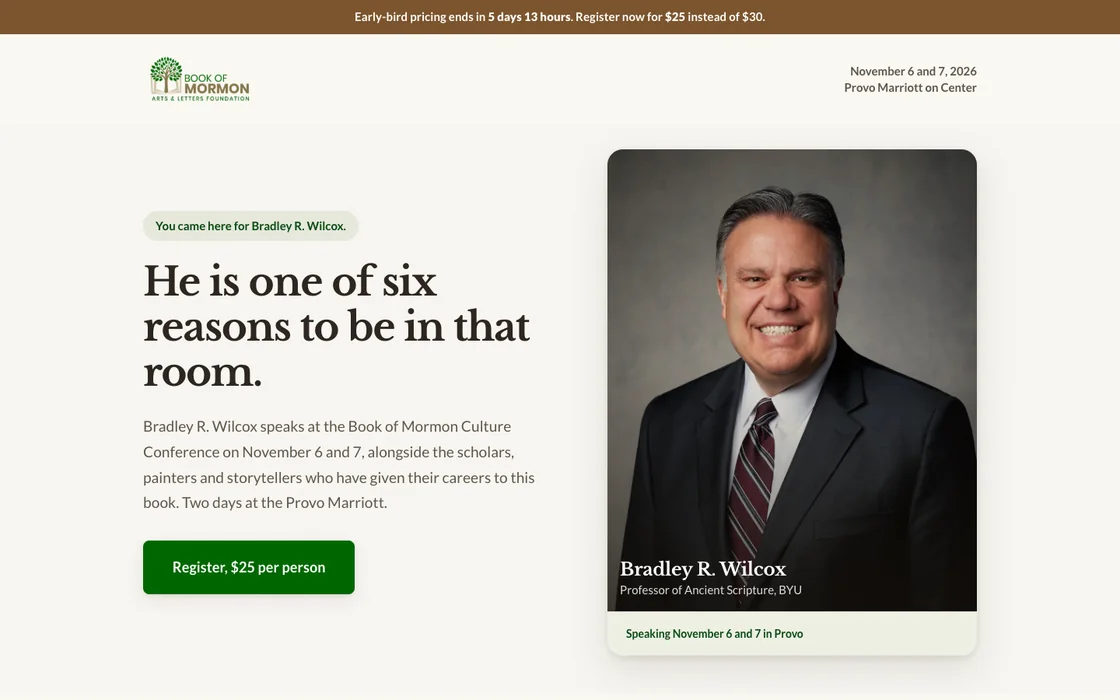
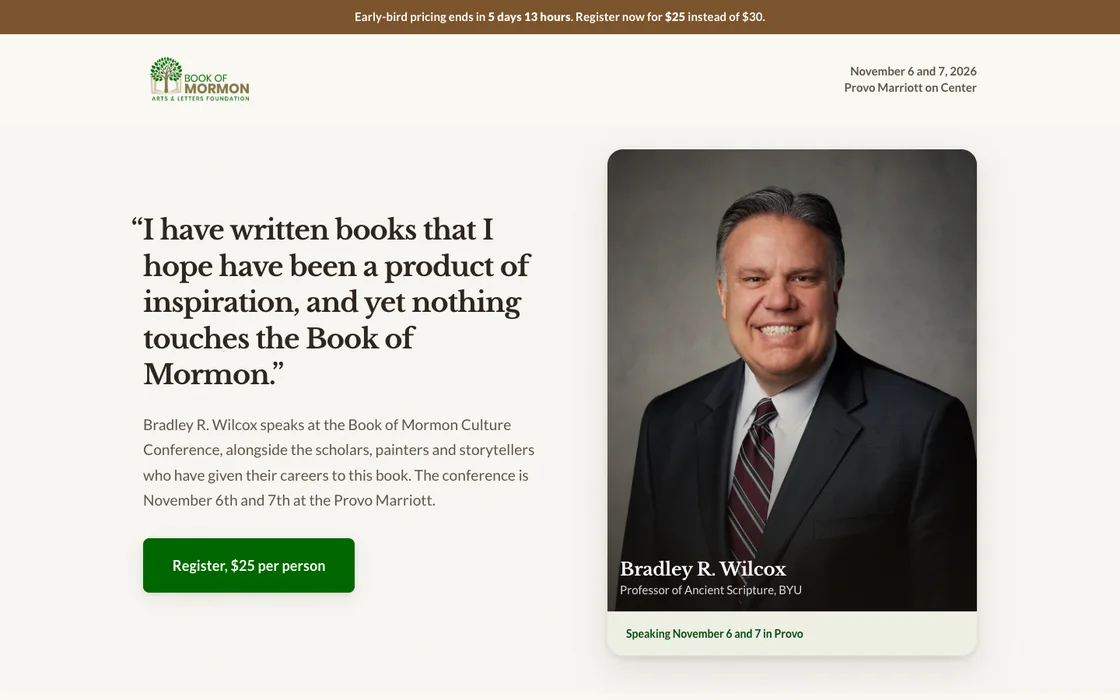
Brian's copy pass on page B, and the add-ons are not sold out
Page B: eyebrow removed, headline replaced with a Wilcox quote, room photo
caption rewritten. The wall is now "Other names on the program", so Wilcox
comes out of it and the five remaining portraits centre their last row.
Rosalynde Welch gets the supplied portrait in place of the 400px headshot.

The hero lede said "on November 6 and 7" and the new closing sentence says
"November 6th and 7th", so the earlier date is dropped rather than printed
twice.

Correction: register.bomal.org showed the banquet and box lunch as sold out
when this was written. Brian confirms neither has. Both now read as available
while they last.

Changed region(s): [[0.125, 0.3, 0.4688, 0.57], [0.125, 0.6, 0.4688, 0.87]]

diff --git a/authority.html b/authority.html
@@ -22,11 +22,9 @@
   .hero{ padding-block:var(--s5) var(--s6); }
   .hero-grid{ display:grid; gap:var(--s6); align-items:center; }
   @media (min-width:900px){ .hero-grid{ grid-template-columns:1.05fr .95fr; gap:var(--s7); } }
-  .hero h1{ max-width:16ch; }
+  .hero h1{ max-width:21ch; font-size:clamp(1.45rem,2.9vw,2.2rem); line-height:1.32; }
+  @media (min-width:700px){ .hero h1{ text-indent:-.44em; } }
   .hero .lede{ margin-top:var(--s4); max-width:52ch; }
-  .hero .from-speaker{ display:inline-block; margin-bottom:var(--s4);
-    font-size:.9375rem; font-weight:700; color:var(--green-deep);
-    background:rgba(125,151,94,.14); border-radius:999px; padding:.45rem 1rem; }
 
   .hero-card{ border-radius:var(--rad-xl); overflow:hidden; box-shadow:var(--sh-3); background:var(--card); }
   .hero-card .portrait{ aspect-ratio:4/5; }
@@ -38,8 +36,9 @@
   .wall-intro{ margin-bottom:var(--s5); }
 
   /* The wall. Six faces, full bleed of the container, no ornament. */
-  .wall{ display:grid; grid-template-columns:repeat(2,1fr); gap:var(--s4); }
-  @media (min-width:680px){ .wall{ grid-template-columns:repeat(3,1fr); } }
+  .wall{ display:flex; flex-wrap:wrap; justify-content:center; gap:var(--s4); }
+  .wall figure{ flex:0 0 calc((100% - var(--s4)) / 2); }
+  @media (min-width:680px){ .wall figure{ flex:0 0 calc((100% - 2 * var(--s4)) / 3); } }
   .wall figure{ margin:0; }
   .wall .portrait{ aspect-ratio:4/5; border-radius:var(--rad-lg); box-shadow:var(--sh-2); }
   .wall .portrait img{ object-position:center 18%; }
@@ -91,14 +90,11 @@
   <section class="hero grain">
     <div class="wrap hero-grid">
       <div>
-        <p class="from-speaker" data-sp-only hidden>
-          You came here for <span data-sp="name">Bradley R. Wilcox</span>.
-        </p>
-        <h1>He is one of six reasons to be in that room.</h1>
+        <h1>“I have written books that I hope have been a product of inspiration, and yet nothing touches the Book of Mormon.”</h1>
         <p class="lede">
           <span data-sp="name">Bradley R. Wilcox</span> speaks at the Book of Mormon Culture
-          Conference on November 6 and 7, alongside the scholars, painters and storytellers who
-          have given their careers to this book. Two days at the Provo Marriott.
+          Conference, alongside the scholars, painters and storytellers who have given their
+          careers to this book. The conference is November 6th and 7th at the Provo Marriott.
         </p>
         <p style="margin-top:var(--s5)">
           <a class="btn btn-primary btn-lg" href="https://register.bomal.org/" data-register>Register, <span data-price-now>$30</span> per person</a>
@@ -122,7 +118,7 @@
   <section class="section">
     <div class="wrap">
       <div class="wall-intro measure">
-        <h2>The six names on the program</h2>
+        <h2>Other names on the program</h2>
       </div>
       <div class="wall">
         <figure>
@@ -134,17 +130,10 @@
         </figure>
         <figure>
           <div class="portrait">
-            <img src="brand_assets/speakers/welch.webp" alt="Rosalynde F. Welch" width="400" height="400">
+            <img src="brand_assets/speakers/welch-portrait.webp" alt="Rosalynde F. Welch" width="1000" height="1000">
             <div class="portrait-cap"><h3>Rosalynde F. Welch</h3><p>Associate Director, Neal A. Maxwell Institute</p></div>
           </div>
           <p class="tagline">Scholar of scripture and theology, and a conference keynote.</p>
-        </figure>
-        <figure>
-          <div class="portrait">
-            <img src="brand_assets/speakers/wilcox-portrait.webp" alt="Bradley R. Wilcox" width="1000" height="1250">
-            <div class="portrait-cap"><h3>Bradley R. Wilcox</h3><p>Professor of Ancient Scripture, BYU</p></div>
-          </div>
-          <p class="tagline">Keynote speaker across the two days in Provo.</p>
         </figure>
         <figure>
           <div class="portrait">
@@ -190,9 +179,10 @@
       <div class="photo photo-caption">
         <img src="brand_assets/event/panel.webp" alt="A panel session in front of a full auditorium at the conference" width="1800" height="1200" loading="lazy">
         <div class="cap">
-          <b>This is the room</b>
-          <p>Not a livestream and not a lecture hall of strangers. Panels, questions from the floor,
-             and people who stay afterward to keep arguing about it.</p>
+          <b>A room like this</b>
+          <p>This is a live event meant for people coming together to celebrate the Book of
+             Mormon. This is not a debate of controversial topics. There are panels, questions
+             from the floor, and people who stay to strengthen testimonies and each other.</p>
         </div>
       </div>
     </div>
@@ -243,8 +233,8 @@
     <div class="wrap-narrow closer">
       <h2>Two days. One room. Thirty dollars.</h2>
       <p class="lede">
-        The Friday banquet and the Saturday box lunch have already sold out.
-        Conference registration is still open.
+        The Friday honoree banquet and the Saturday box lunch are separate tickets,
+        available while they last.
       </p>
       <a class="btn btn-onbark btn-lg" href="https://register.bomal.org/" data-register>Register for the conference</a>
       <p class="cta-sub"><span data-price-note>Full registration, both days.</span> Groups receive an automatic ten percent discount.</p>

diff --git a/index.html b/index.html
@@ -171,7 +171,7 @@
               <b>Structure</b>
               <ul class="opt-structure">
                 <li><span class="n">1</span><span>Wilcox hero, one CTA</span></li>
-                <li><span class="n">2</span><span>Six-portrait wall with roles and context</span></li>
+                <li><span class="n">2</span><span>The five other names, with roles and context</span></li>
                 <li><span class="n">3</span><span>The institutions behind them</span></li>
                 <li><span class="n">4</span><span>A photo of the actual room</span></li>
                 <li><span class="n">5</span><span>Rane spotlight, podcast, CTA band</span></li>
@@ -218,7 +218,7 @@
           <p>
             One date in <code>assets/lp.js</code> drives the top strip and every price on both
             pages. Before October 10 it counts down the early bird. After, it flips itself to the
-            event date and the sold-out add-ons.
+            event date and the add-on tickets.
           </p>
         </div>
       </div>
@@ -230,15 +230,15 @@
       <div class="note">
         <h2 style="margin-bottom:var(--s3)">Notes before you start cutting</h2>
         <p>
-          <b>Wilcox has no quote on either page.</b> Nothing attributes words to him. A single
-          line in his own voice in the hero is the strongest upgrade available to both, and the
-          slot is already wired in <code>assets/lp.js</code>.
+          <b>Page B now leads with a Wilcox quote</b>, supplied by Brian, about nothing touching
+          the Book of Mormon. Page A still has none. A line in his own voice is the strongest
+          upgrade available to A as well.
         </p>
         <p>
-          <b>He appears twice on page B</b>, once in the hero and once in the wall, which is
-          headed "The six names on the program" so the repeat reads as intentional rather than
-          as a mistake. The wall is the whole argument of that page, so dropping him from it
-          would cost more than the repetition does. Easy to change if you disagree.
+          <b>The banquet and box lunch are not sold out.</b> register.bomal.org said they were
+          when these pages were first written, and it went into the copy in nine places across
+          both repos. Corrected on 2026-10-05 to "available while they last". If the
+          registration site still shows them sold out, that is the thing to fix next.
         </p>
         <p>
           <b>Still no written social proof.</b> No attendee quotes, no attendance number, no
@@ -247,7 +247,7 @@
         </p>
         <p>
           <b>Facts came from bomal.org and register.bomal.org</b> on October 5, 2026. The ad is
-          live, so confirm the price, the dates and the sold-out add-ons before spend scales.
+          live, so confirm the price, the dates and the add-on tickets before spend scales.
         </p>
       </div>
     </div>

diff --git a/assets/lp.js b/assets/lp.js
@@ -20,7 +20,7 @@ var REGISTER_URL = 'https://register.bomal.org/';
    them. See content-gaps.md. */
 var SPEAKERS = {
   givens:  { name: 'Terryl Givens',       role: 'Senior Research Fellow, Neal A. Maxwell Institute', img: 'givens.webp',  quote: '' },
-  welch:   { name: 'Rosalynde F. Welch',  role: 'Associate Director, Neal A. Maxwell Institute',     img: 'welch.webp',   quote: '' },
+  welch:   { name: 'Rosalynde F. Welch',  role: 'Associate Director, Neal A. Maxwell Institute',     img: 'welch-portrait.webp', quote: '' },
   wilcox:  { name: 'Bradley R. Wilcox',   role: 'Professor of Ancient Scripture, BYU',               img: 'wilcox-portrait.webp', quote: '' },
   rane:    { name: 'Walter Rane',         role: 'Painter, honored Saturday afternoon',               img: 'rane.webp',    quote: '' },
   pelo:    { name: 'Brad Pelo',           role: 'President, The Chosen',                             img: 'pelo.webp',    quote: '' },
@@ -98,7 +98,7 @@ var SPEAKERS = {
     } else {
       live = false;
       document.querySelectorAll('[data-urgency]').forEach(function (el) {
-        el.innerHTML = '<b>November 6 and 7</b> at the Provo Marriott. The banquet and the box lunch are already sold out.';
+        el.innerHTML = '<b>November 6 and 7</b> at the Provo Marriott. Banquet and box lunch tickets are available while they last.';
       });
       document.querySelectorAll('[data-price-now]').forEach(function (el) { el.textContent = '$30'; });
       document.querySelectorAll('[data-price-was]').forEach(function (el) { el.hidden = true; });
